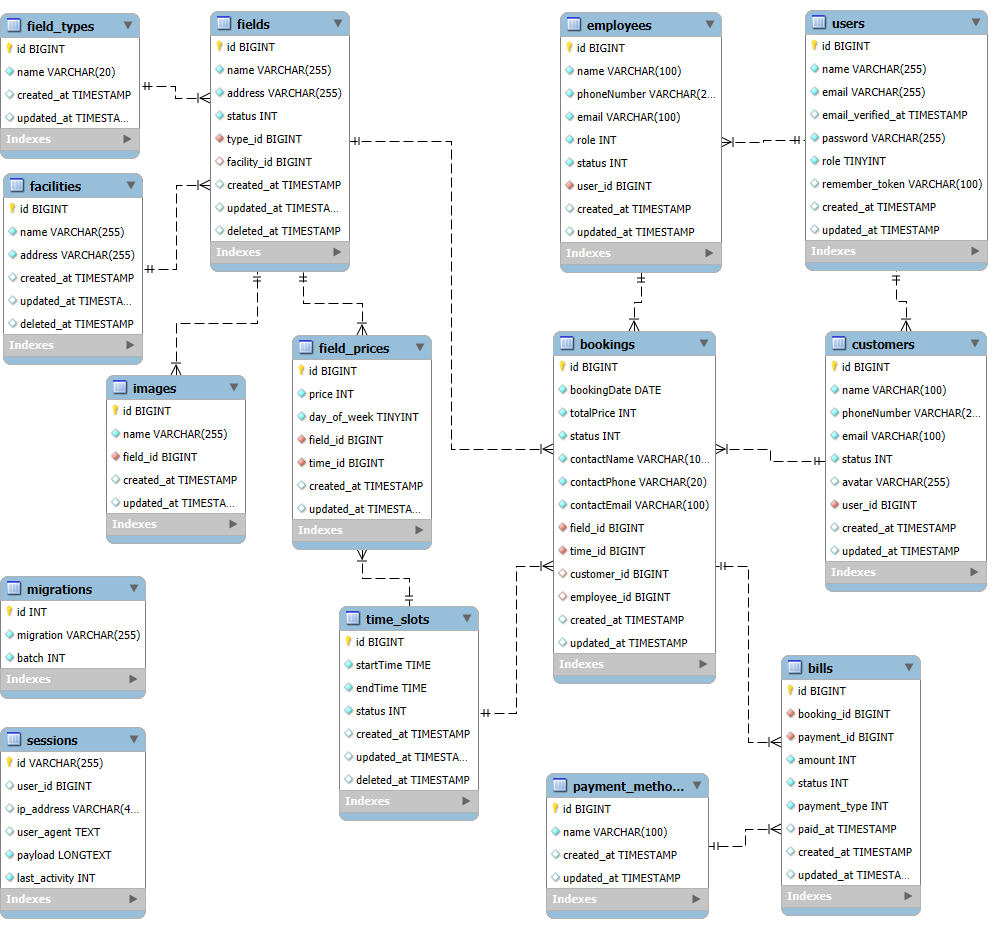
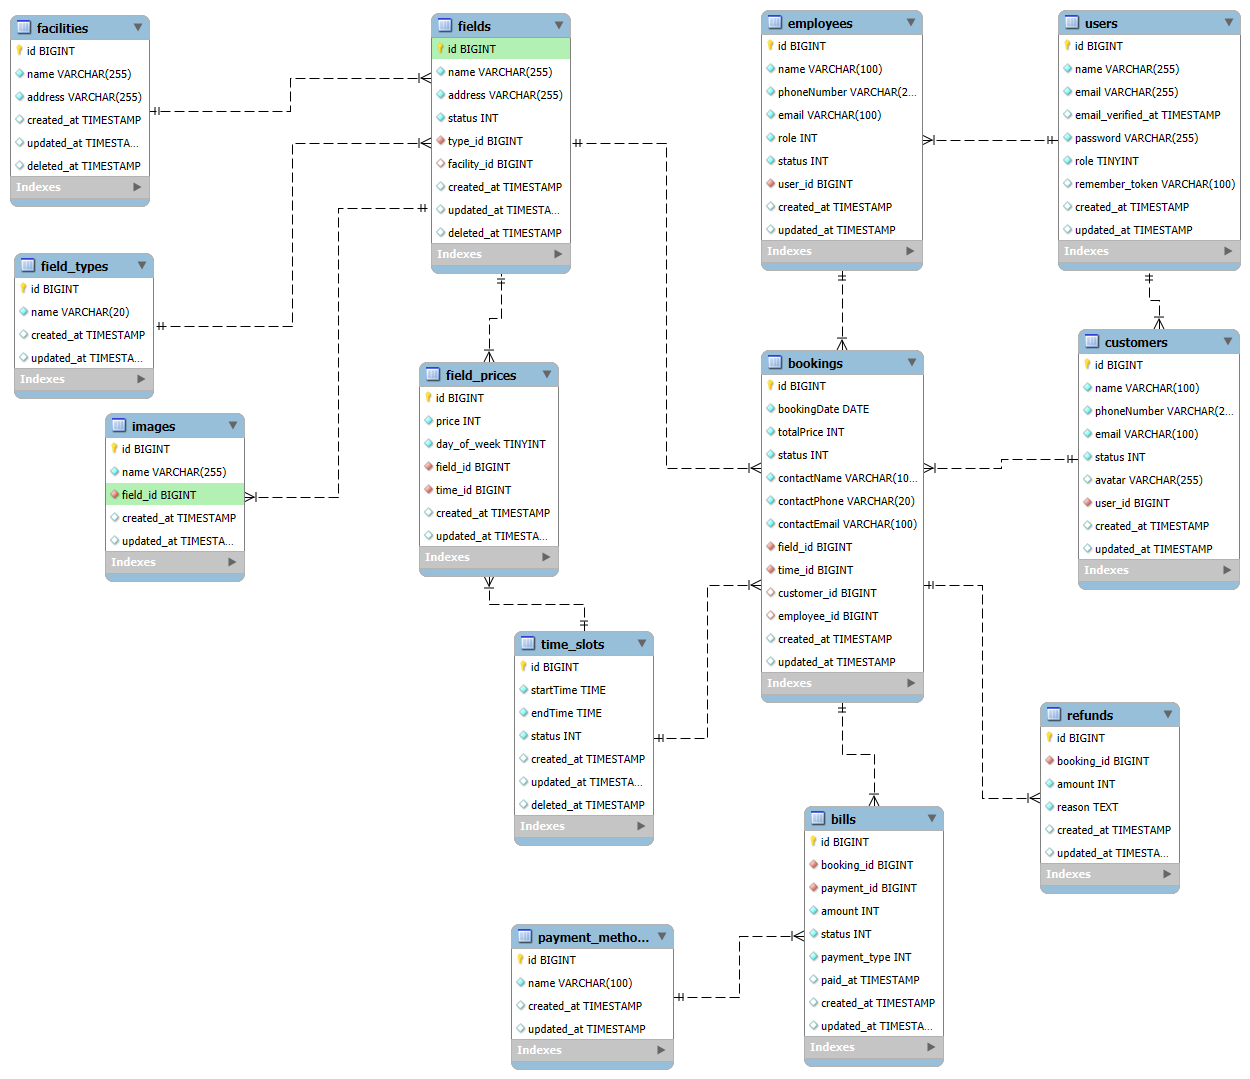
thử thống kê doanh thu bằng biểu đồ

diff --git a/resources/views/admins/dashboard/index.blade.php b/resources/views/admins/dashboard/index.blade.php
@@ -19,7 +19,7 @@
 
         <div class="flex-1 flex flex-col">
             <main class="overflow-auto">
-                <div class="grid grid-cols-1 md:grid-cols-2 xl:grid-cols-4 gap-6 mb-6">
+                <div class="grid grid-cols-1 md:grid-cols-3 gap-6 mb-6">
                     <div class="bg-white p-5 rounded-xl shadow flex items-center gap-4 min-w-0">
                         <div class="bg-blue-100 p-3 rounded-lg text-blue-700">
                             <svg xmlns="http://www.w3.org/2000/svg" class="w-6 h-6" fill="#222C3A" viewBox="0 0 36 36"
@@ -81,22 +81,57 @@
                         </div>
                     </div>
 
-                    <div class="bg-white p-5 rounded-xl shadow flex items-center gap-4 min-w-0">
-                        <div class="bg-green-100 p-3 rounded-lg text-green-700">
-                            <svg xmlns="http://www.w3.org/2000/svg" class="w-6 h-6 scale-125 opacity-80" viewBox="0 0 56 56"
-                                fill="currentColor">
-                                <path fill-rule="evenodd"
-                                    d="M29 30v10c3.519-.316 5-2.287 5-4.89c0-2.507-1.152-3.99-5-5.11m-3-5v-9c-3.273.415-5 2.33-5 4.43s1.364 3.647 5 4.57m2.84.737l1.072.277C35.784 27.423 39 29.917 39 34.836c0 5.658-4.466 8.868-10.16 9.284V48h-2.523v-3.88c-5.672-.439-10.16-3.741-10.317-9.284h4.622c.402 2.702 2.1 4.688 5.695 5.08V29.849l-.916-.231c-5.672-1.363-8.731-3.996-8.731-8.684c0-5.173 4.02-8.591 9.647-9.03V8h2.523v3.903c5.582.462 9.624 3.926 9.803 9.169h-4.645c-.29-2.91-2.3-4.596-5.158-4.966z" />
-                            </svg>
-                        </div>
-                        <div class="min-w-0 flex-1">
-                            <h2 class="text-lg xl:text-2xl font-bold text-green-600 leading-tight break-all"
-                                title="{{ number_format($revenue) }}đ">
-                                {{ $formattedRevenue }}
-                            </h2>
-                            <p class="text-gray-500 text-sm mt-1">
+                </div>
+
+                <div class="bg-white rounded-xl shadow border border-gray-200 p-5 mb-6">
+                    <div class="flex flex-col xl:flex-row xl:items-start xl:justify-between gap-4 mb-5">
+                        <div>
+                            <h2 class="flex items-center gap-2 text-xl font-bold text-gray-800">
+                                <svg xmlns="http://www.w3.org/2000/svg" class="w-6 h-6 text-green-600" viewBox="0 0 56 56"
+                                    fill="currentColor">
+                                    <path fill-rule="evenodd"
+                                        d="M29 30v10c3.519-.316 5-2.287 5-4.89c0-2.507-1.152-3.99-5-5.11m-3-5v-9c-3.273.415-5 2.33-5 4.43s1.364 3.647 5 4.57m2.84.737l1.072.277C35.784 27.423 39 29.917 39 34.836c0 5.658-4.466 8.868-10.16 9.284V48h-2.523v-3.88c-5.672-.439-10.16-3.741-10.317-9.284h4.622c.402 2.702 2.1 4.688 5.695 5.08V29.849l-.916-.231c-5.672-1.363-8.731-3.996-8.731-8.684c0-5.173 4.02-8.591 9.647-9.03V8h2.523v3.903c5.582.462 9.624 3.926 9.803 9.169h-4.645c-.29-2.91-2.3-4.596-5.158-4.966z" />
+                                </svg>
                                 Doanh thu
+                            </h2>
+                            <p class="text-3xl font-bold text-green-600 mt-2" title="{{ number_format($revenue) }}đ">
+                                {{ $formattedRevenue }}
                             </p>
+                        </div>
+
+                        <form method="GET" action="{{ route('admins.index') }}"
+                            class="grid grid-cols-1 sm:grid-cols-[1fr_1fr_auto] gap-3 items-end">
+                            <div>
+                                <label for="from_date" class="block text-sm font-semibold text-gray-700 mb-1">Từ ngày</label>
+                                <input type="date" id="from_date" name="from_date"
+                                    value="{{ $fromDate->toDateString() }}"
+                                    class="w-full border border-gray-300 rounded-lg px-3 py-2 text-sm focus:outline-none focus:ring-2 focus:ring-green-500">
+                            </div>
+                            <div>
+                                <label for="to_date" class="block text-sm font-semibold text-gray-700 mb-1">Đến ngày</label>
+                                <input type="date" id="to_date" name="to_date"
+                                    value="{{ $toDate->toDateString() }}"
+                                    class="w-full border border-gray-300 rounded-lg px-3 py-2 text-sm focus:outline-none focus:ring-2 focus:ring-green-500">
+                            </div>
+                            <button type="submit"
+                                class="bg-green-600 text-white font-semibold rounded-lg px-4 py-2 text-sm hover:bg-green-700">
+                                Lọc
+                            </button>
+                        </form>
+                    </div>
+
+                    <div class="overflow-x-auto">
+                        <div class="min-w-[640px] h-72 flex items-end gap-3 border-l border-b border-gray-200 px-4 pt-4 pb-8">
+                            @foreach ($revenueChart as $item)
+                                <div class="flex-1 h-full flex flex-col justify-end items-center gap-2 min-w-[52px]">
+                                    <div class="w-full flex-1 flex items-end justify-center">
+                                        <div class="w-full max-w-12 bg-green-500 rounded-t hover:bg-green-600 transition"
+                                            style="height: {{ max(($item['revenue'] / $maxRevenue) * 100, $item['revenue'] > 0 ? 4 : 0) }}%;"
+                                            title="{{ $item['label'] }}: {{ number_format($item['revenue']) }}đ"></div>
+                                    </div>
+                                    <div class="text-xs text-gray-500 whitespace-nowrap">{{ $item['label'] }}</div>
+                                </div>
+                            @endforeach
                         </div>
                     </div>
                 </div>

diff --git a/app/Http/Controllers/DashboardController.php b/app/Http/Controllers/DashboardController.php
@@ -5,12 +5,13 @@ namespace App\Http\Controllers;
 use App\Models\Booking;
 use App\Models\Customer;
 use App\Models\Field;
+use Carbon\Carbon;
 use Illuminate\Http\Request;
 use Illuminate\Support\Facades\DB;
 
 class DashboardController extends Controller
 {
-    public function index()
+    public function index(Request $request)
     {    
         Booking::updateCompletedBookings();
 
@@ -19,7 +20,39 @@ class DashboardController extends Controller
         $customers = Customer::count();
         $fields = Field::count();
         $bookings = Booking::count();
-        $revenue = Booking::whereIn('status', [1, 3])->sum('totalPrice');
+        $fromDate = $request->input('from_date')
+            ? Carbon::parse($request->input('from_date'))->startOfDay()
+            : now()->subDays(6)->startOfDay();
+        $toDate = $request->input('to_date')
+            ? Carbon::parse($request->input('to_date'))->startOfDay()
+            : now()->startOfDay();
+
+        if ($fromDate->gt($toDate)) {
+            [$fromDate, $toDate] = [$toDate, $fromDate];
+        }
+
+        $revenueByDate = Booking::select('bookingDate', DB::raw('sum(totalPrice) as total_revenue'))
+            ->whereIn('status', [1, 3])
+            ->whereBetween('bookingDate', [$fromDate->toDateString(), $toDate->toDateString()])
+            ->groupBy('bookingDate')
+            ->orderBy('bookingDate')
+            ->pluck('total_revenue', 'bookingDate');
+
+        $revenueChart = collect();
+        $currentDate = $fromDate->copy();
+
+        while ($currentDate->lte($toDate)) {
+            $dateKey = $currentDate->toDateString();
+            $revenueChart->push([
+                'date' => $dateKey,
+                'label' => $currentDate->format('d/m'),
+                'revenue' => (int) ($revenueByDate[$dateKey] ?? 0),
+            ]);
+            $currentDate->addDay();
+        }
+
+        $revenue = $revenueChart->sum('revenue');
+        $maxRevenue = max($revenueChart->max('revenue') ?? 0, 1);
         $formattedRevenue = number_format($revenue) . 'đ';
 
         if ($revenue >= 1000000000) {
@@ -57,6 +90,6 @@ class DashboardController extends Controller
             return $items->take(3);
         });
 
-        return view('admins.dashboard.index', compact('booking', 'customers', 'fields', 'bookings', 'revenue', 'formattedRevenue', 'mostBookedFields', 'topTimeSlotsByFacility'));
+        return view('admins.dashboard.index', compact('booking', 'customers', 'fields', 'bookings', 'revenue', 'formattedRevenue', 'revenueChart', 'maxRevenue', 'fromDate', 'toDate', 'mostBookedFields', 'topTimeSlotsByFacility'));
     }
 }